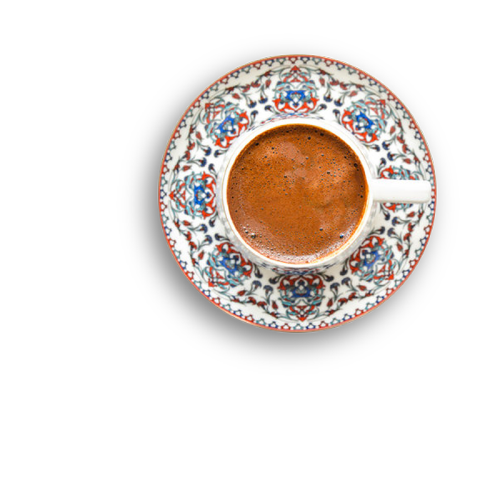
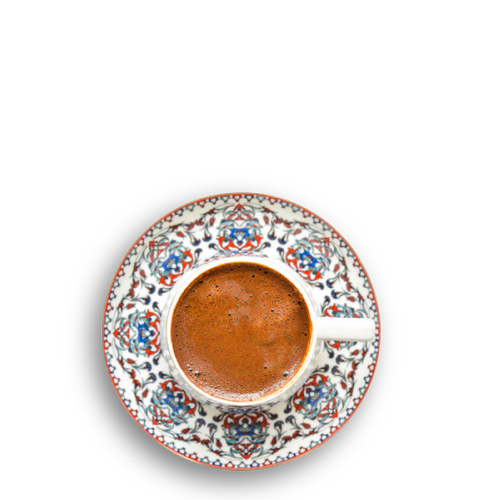
update

diff --git a/templates/index.html b/templates/index.html
@@ -2237,7 +2237,7 @@ function openCity(evt, cityName) {
 
 
 
-                    <div id="parallax" class="desktopp" style=" width: 600px; position: absolute; top: 50%; left: 46%; transform: translate(-50%, -50%);"></div>
+                    <div id="parallax" class="desktopp" style=" width: 600px; position: absolute; top: 70%; left: 46%; transform: translate(-50%, -50%);"></div>
 
 <script>
     (function() {
@@ -2250,9 +2250,9 @@ function openCity(evt, cityName) {
         let _h = window.innerHeight/2;
         let _mouseX = e.clientX;
         let _mouseY = e.clientY;
-        let _depth1 = `${50 - (_mouseX - _w) * 0.01}% ${50 - (_mouseY - _h) * 0.01}%`;
-        let _depth2 = `${50 - (_mouseX - _w) * 0.02}% ${50 - (_mouseY - _h) * 0.02}%`;
-        let _depth3 = `${50 - (_mouseX - _w) * 0.06}% ${50 - (_mouseY - _h) * 0.06}%`;
+        let _depth1 = `${10 - (_mouseX - _w) * 0.001}% ${10 - (_mouseY - _h) * 0.001}%`;
+        let _depth2 = `${10 - (_mouseX - _w) * 0.002}% ${10 - (_mouseY - _h) * 0.002}%`;
+        let _depth3 = `${10 - (_mouseX - _w) * 0.006}% ${10 - (_mouseY - _h) * 0.006}%`;
         let x = `${_depth3}, ${_depth2}, ${_depth1}`;
         elem.style.backgroundPosition = x;
     }
